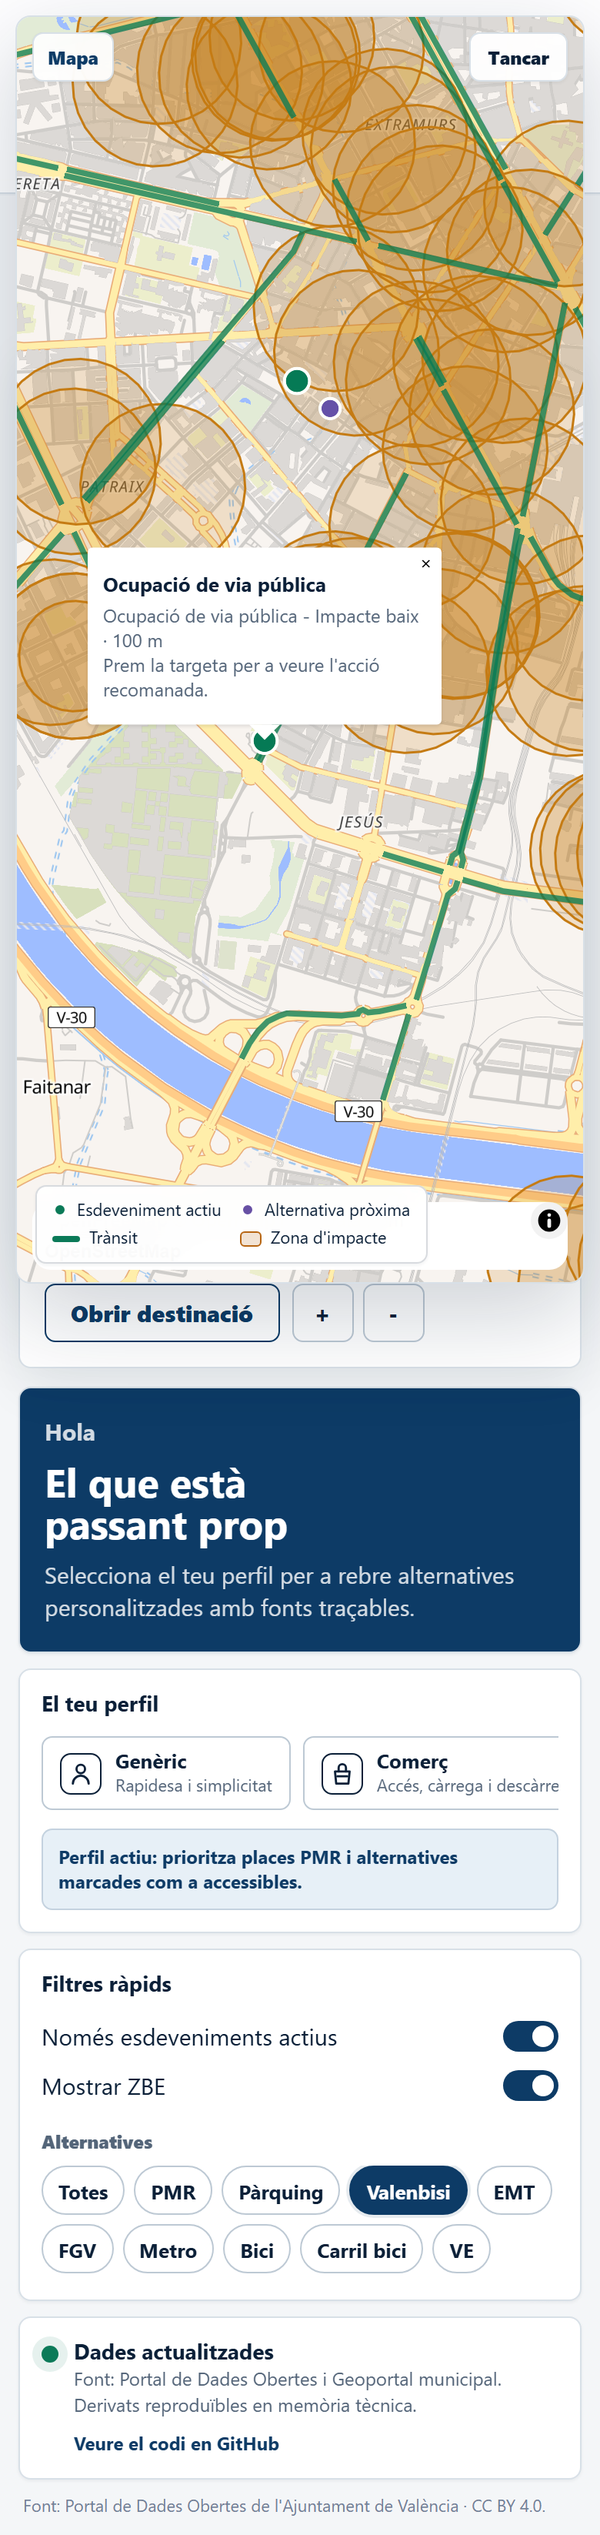
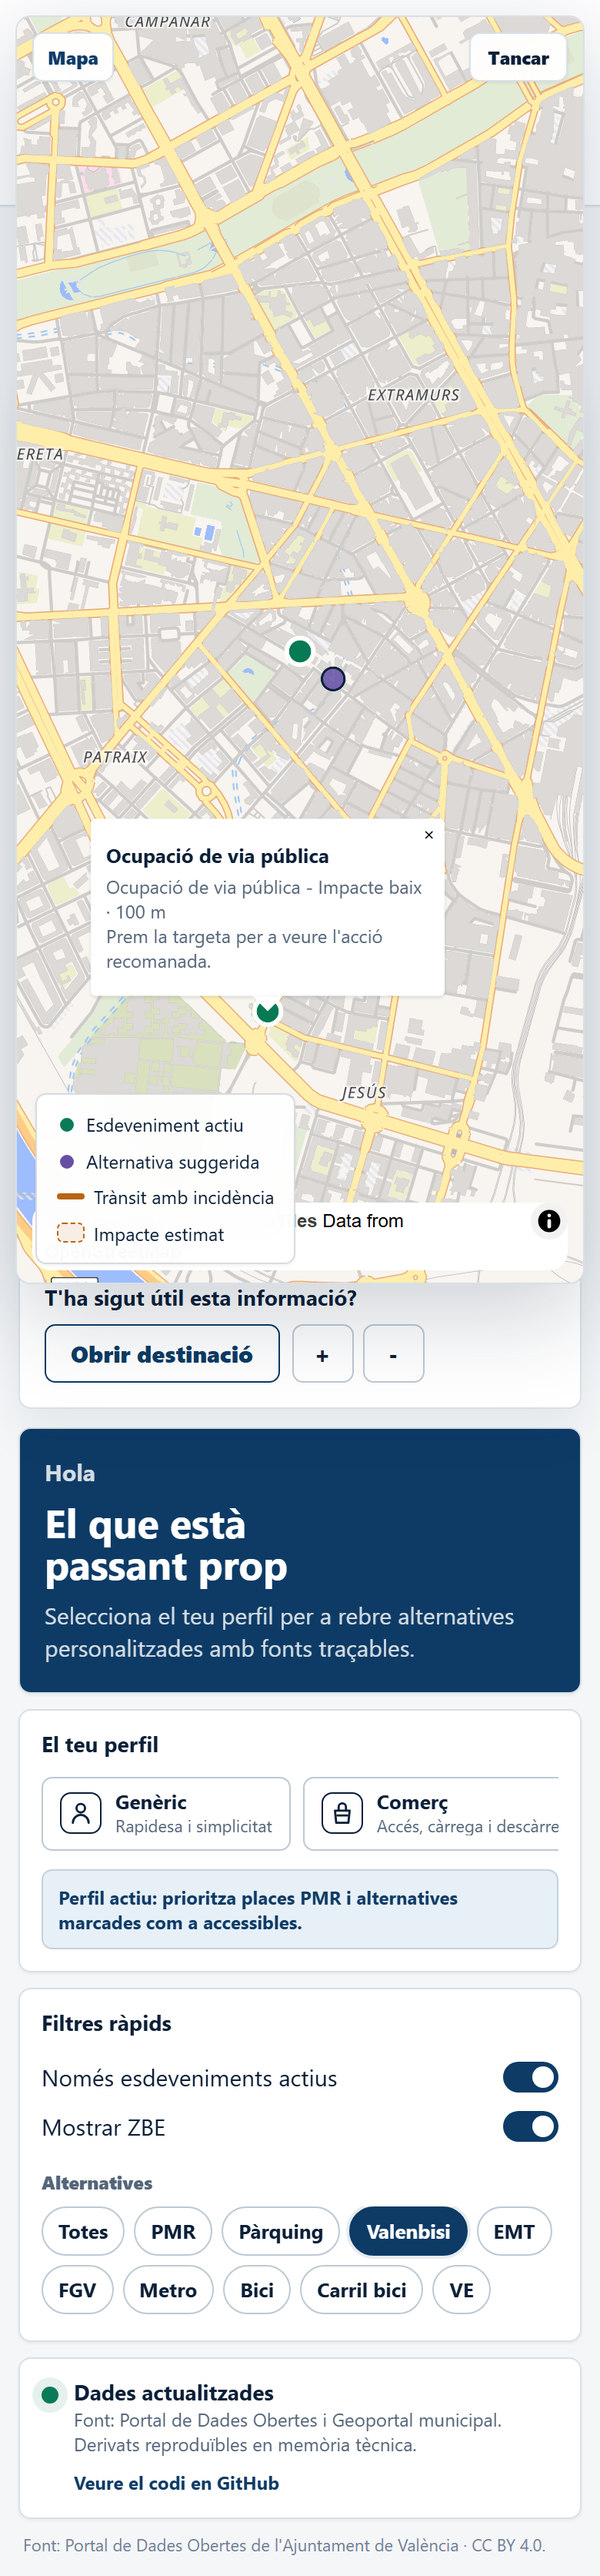
Refine map and content clarity

diff --git a/src/frontend/assets/app.css b/src/frontend/assets/app.css
@@ -508,8 +508,7 @@ a:hover {
   scrollbar-width: none;
 }
 
-.poi-filters button,
-.view-tabs button {
+.poi-filters button {
   min-height: 32px;
   border: 1px solid var(--line-strong);
   border-radius: 999px;
@@ -524,12 +523,7 @@ a:hover {
   padding: 0 10px;
 }
 
-.view-tabs button {
-  padding: 0 12px;
-}
-
-.poi-filters button[aria-pressed="true"],
-.view-tabs button[aria-pressed="true"] {
+.poi-filters button[aria-pressed="true"] {
   border-color: var(--blue);
   background: var(--blue);
   color: #fff;
@@ -578,10 +572,42 @@ a:hover {
 
 .view-tabs {
   display: flex;
-  gap: 7px;
+  gap: 22px;
   overflow-x: auto;
-  padding: 2px 0;
+  padding: 0;
   scrollbar-width: none;
+}
+
+.view-tabs button {
+  position: relative;
+  min-height: 44px;
+  padding: 0 0 2px;
+  border: 0;
+  border-radius: 0;
+  background: transparent;
+  color: var(--muted);
+  white-space: nowrap;
+  font-size: 14px;
+  font-weight: 800;
+}
+
+.view-tabs button::after {
+  content: "";
+  position: absolute;
+  left: 0;
+  right: 0;
+  bottom: 0;
+  height: 3px;
+  border-radius: 999px;
+  background: transparent;
+}
+
+.view-tabs button[aria-pressed="true"] {
+  color: var(--blue);
+}
+
+.view-tabs button[aria-pressed="true"]::after {
+  background: var(--blue);
 }
 
 .map-shell {
@@ -657,16 +683,16 @@ a:hover {
   bottom: 12px;
   z-index: 4;
   display: grid;
-  grid-template-columns: repeat(2, minmax(0, auto));
-  gap: 6px 12px;
-  max-width: min(360px, calc(100% - 24px));
-  padding: 9px 10px;
+  grid-template-columns: 1fr;
+  gap: 9px;
+  max-width: min(280px, calc(100% - 24px));
+  padding: 12px 13px;
   border: 1px solid rgba(11, 32, 56, 0.16);
   border-radius: 7px;
   background: rgba(255, 255, 255, 0.94);
   color: var(--ink);
-  font-size: 11px;
-  line-height: 1.15;
+  font-size: 12px;
+  line-height: 1.2;
   box-shadow: var(--shadow-soft);
 }
 
@@ -684,8 +710,8 @@ a:hover {
 }
 
 .legend-dot {
-  width: 10px;
-  height: 10px;
+  width: 13px;
+  height: 13px;
   border: 2px solid #fff;
   border-radius: 999px;
 }
@@ -702,15 +728,16 @@ a:hover {
   width: 18px;
   height: 4px;
   border-radius: 999px;
-  background: var(--green);
+  background: var(--orange);
 }
 
 .legend-zone {
-  width: 14px;
-  height: 10px;
+  width: 18px;
+  height: 13px;
   border: 1px solid var(--orange);
-  border-radius: 3px;
-  background: rgba(183, 101, 18, 0.18);
+  border-style: dashed;
+  border-radius: 4px;
+  background: rgba(183, 101, 18, 0.1);
 }
 
 .map-shell.is-expanded {
@@ -1125,7 +1152,6 @@ a:hover {
 
 .source-list,
 .method-list,
-.info-metrics,
 .faq-list {
   display: grid;
   gap: 8px;
@@ -1134,17 +1160,16 @@ a:hover {
 .source-row,
 .map-explainer,
 .faq-item,
-.limitation-list li,
-.info-metrics div {
-  border: 1px solid var(--line);
-  border-radius: var(--radius);
-  background: var(--paper);
+.limitation-list li {
+  border-top: 1px solid var(--line);
 }
 
 .source-row {
   display: grid;
-  gap: 5px;
-  padding: 12px;
+  grid-template-columns: minmax(0, 1fr) auto;
+  gap: 8px 16px;
+  padding: 14px 0;
+  border-top: 1px solid var(--line);
 }
 
 .source-row strong,
@@ -1163,6 +1188,13 @@ a:hover {
 .faq-item p {
   color: var(--muted);
   line-height: 1.45;
+}
+
+.source-row a {
+  grid-column: 2;
+  grid-row: 1 / span 2;
+  align-self: center;
+  white-space: nowrap;
 }
 
 .dataset-list {
@@ -1196,7 +1228,7 @@ a:hover {
 .limitation-list li,
 .map-explainer,
 .faq-item {
-  padding: 10px 11px;
+  padding: 10px 0;
 }
 
 .map-explainer strong,
@@ -1217,11 +1249,17 @@ a:hover {
 }
 
 .info-metrics {
-  grid-template-columns: repeat(3, minmax(0, 1fr));
+  display: flex;
+  flex-wrap: wrap;
+  gap: 16px 24px;
+  padding: 14px 0;
+  border-top: 1px solid var(--line);
+  border-bottom: 1px solid var(--line);
 }
 
 .info-metrics div {
-  padding: 12px 10px;
+  min-width: 110px;
+  padding: 0;
 }
 
 .info-metrics strong,
@@ -1293,6 +1331,7 @@ a:hover {
     grid-column: auto;
     order: initial;
     justify-content: center;
+    align-self: stretch;
   }
 
   .info-panel:not([hidden]) {
@@ -1408,6 +1447,11 @@ a:hover {
     box-shadow: var(--shadow);
   }
 
+  .map-legend {
+    left: 336px;
+    bottom: 278px;
+  }
+
   .map-help {
     position: absolute;
     left: 336px;
@@ -1460,7 +1504,6 @@ a:hover {
   .route-button,
   .feedback-button,
   .profile-selector button,
-  .view-tabs button,
   .poi-filters button {
     transition: border-color 160ms ease, box-shadow 160ms ease, transform 160ms ease, background 160ms ease;
   }

diff --git a/src/frontend/assets/app.js b/src/frontend/assets/app.js
@@ -845,8 +845,11 @@ function updateMap(cards) {
   }
 
   ensureMapLayers();
-  setGeoJsonSource("impact-zones", featureCollection(state.impactZones.map(impactZoneFeature)));
-  setGeoJsonSource("traffic-lines", featureCollection(state.trafficEvents.map(eventGeometryFeature).filter(Boolean)));
+  const visibleEventIds = new Set(cards.map(({ event }) => Number(event.id)));
+  const visibleImpactZones = state.impactZones.filter((zone) => visibleEventIds.has(Number(zone.event_id)));
+  const relevantTrafficEvents = state.trafficEvents.filter((event) => Number(event.severity || 1) > 1);
+  setGeoJsonSource("impact-zones", featureCollection(visibleImpactZones.map(impactZoneFeature)));
+  setGeoJsonSource("traffic-lines", featureCollection(relevantTrafficEvents.map(eventGeometryFeature).filter(Boolean)));
   setGeoJsonSource("event-points", featureCollection(cards.map(({ event }) => eventPointFeature(event)).filter(Boolean)));
   setGeoJsonSource(
     "alternative-points",
@@ -876,7 +879,7 @@ function ensureMapLayers() {
     source: "impact-zones",
     paint: {
       "fill-color": ["case", [">=", ["get", "severity"], 4], "#c7362f", "#c57b13"],
-      "fill-opacity": 0.18,
+      "fill-opacity": 0.1,
     },
   });
   state.map.addLayer({
@@ -885,7 +888,8 @@ function ensureMapLayers() {
     source: "impact-zones",
     paint: {
       "line-color": ["case", [">=", ["get", "severity"], 4], "#c7362f", "#c57b13"],
-      "line-width": 1.5,
+      "line-width": 2,
+      "line-dasharray": [2, 2],
     },
   });
   state.map.addLayer({
@@ -894,8 +898,8 @@ function ensureMapLayers() {
     source: "traffic-lines",
     paint: {
       "line-color": ["case", [">=", ["get", "severity"], 4], "#c7362f", [">=", ["get", "severity"], 3], "#c57b13", "#057a55"],
-      "line-width": ["interpolate", ["linear"], ["zoom"], 11, 2, 15, 5],
-      "line-opacity": 0.76,
+      "line-width": ["interpolate", ["linear"], ["zoom"], 11, 1.5, 15, 3.5],
+      "line-opacity": 0.58,
     },
   });
   state.map.addLayer({
@@ -906,7 +910,7 @@ function ensureMapLayers() {
       "circle-radius": ["interpolate", ["linear"], ["zoom"], 11, 5, 15, 9],
       "circle-color": ["case", [">=", ["get", "severity"], 4], "#c7362f", "#057a55"],
       "circle-stroke-color": "#fffffb",
-      "circle-stroke-width": 2,
+      "circle-stroke-width": 3,
     },
   });
   state.map.addLayer({
@@ -914,10 +918,11 @@ function ensureMapLayers() {
     type: "circle",
     source: "alternative-points",
     paint: {
-      "circle-radius": ["interpolate", ["linear"], ["zoom"], 11, 4, 15, 7],
+      "circle-radius": ["interpolate", ["linear"], ["zoom"], 11, 5, 15, 8],
       "circle-color": "#6551a8",
-      "circle-stroke-color": "#fffffb",
-      "circle-stroke-width": 2,
+      "circle-stroke-color": "#0b2038",
+      "circle-stroke-width": 1.5,
+      "circle-opacity": 0.86,
     },
   });
   setupMapInteractions();
@@ -972,7 +977,7 @@ function popupForEventPoint(properties) {
 function popupForAlternativePoint(properties) {
   const accessible = properties.accessible === true || properties.accessible === "true";
   return popupHtml(properties.name || labelForPoi(properties.poi_type), [
-    labelForPoi(properties.poi_type),
+    `${t("legendAlternative")} - ${labelForPoi(properties.poi_type)}`,
     accessible ? t("popupAccessible") : t("popupAlternativeHint"),
   ]);
 }
@@ -982,6 +987,7 @@ function popupForImpactZone(properties) {
   return popupHtml(t("legendImpact"), [
     `${labelForType(properties.event_type)} - ${impact.label}`,
     formatMessage("popupImpactRadius", { meters: Math.round(Number(properties.buffer_distance || 0)) }),
+    t("popupImpactHint"),
   ]);
 }
 

diff --git a/src/frontend/index.html b/src/frontend/index.html
@@ -95,9 +95,9 @@
             <div id="map" class="map-canvas"></div>
             <div class="map-legend" aria-label="Leyenda del mapa" data-i18n-attr="aria-label:mapLegendLabel">
               <span><i class="legend-dot legend-event"></i><span data-i18n="legendEvent">Evento activo</span></span>
-              <span><i class="legend-dot legend-alternative"></i><span data-i18n="legendAlternative">Alternativa cercana</span></span>
-              <span><i class="legend-line legend-traffic"></i><span data-i18n="legendTraffic">Tráfico</span></span>
-              <span><i class="legend-zone"></i><span data-i18n="legendImpact">Zona de impacto</span></span>
+              <span><i class="legend-dot legend-alternative"></i><span data-i18n="legendAlternative">Alternativa sugerida</span></span>
+              <span><i class="legend-line legend-traffic"></i><span data-i18n="legendTraffic">Tráfico con incidencia</span></span>
+              <span><i class="legend-zone"></i><span data-i18n="legendImpact">Impacto estimado</span></span>
             </div>
           </section>
 

diff --git a/docs/STATUS.md b/docs/STATUS.md
@@ -95,14 +95,14 @@ Ver [`TODO.md`](./TODO.md) para la lista completa y [`NEXT_STEPS.md`](../NEXT_ST
 | Arranque Docker verificado | ✅ `db` + `api` levantan; `/health` 200 |
 | Action Template Engine | ✅ 5 plantillas, 506 acciones generadas en ingesta real, cobertura de perfiles demo |
 | Golden Path predespliegue | ✅ Demo recomendada: perfil Comercial sobre `ocupacio-via-publica` actual con enlace municipal real; `talls-transit-falles` queda como histórico/fallback documentado |
-| Frontend local | ✅ `http://localhost:3000`/`8080` muestra 6 tarjetas reales, mapa con leyenda y popups clicables, CAS/VAL runtime, selector de idioma alineado a la derecha, nota AD.TR.15 + GitHub, tabs Fuentes/Metodología/Info ampliadas y feedback persistido; capturas en `docs/reports/frontend-mobile.png`, `docs/reports/frontend-desktop.png` y `docs/reports/frontend-polish-current.png` |
+| Frontend local | ✅ `http://localhost:3000`/`8080` muestra 6 tarjetas reales, mapa con leyenda ampliada y popups clicables, CAS/VAL runtime, selector de idioma alineado a la derecha, nota AD.TR.15 + GitHub, nav incrustada `Eventos/Fuentes/Metodología/Info`, tráfico solo con incidencia relevante y feedback persistido; capturas en `docs/reports/frontend-mobile.png`, `docs/reports/frontend-desktop.png` y `docs/reports/frontend-polish-current.png` |
 | Frontend civic utility | ✅ Rediseño map-first con cabecera institucional, perfiles/filtros en carril izquierdo, MapLibre central, detalle seleccionado a la derecha, hoja móvil en flujo y perfil Comercial; smoke Playwright mobile/desktop verde |
 | Lighthouse mobile | ✅ Performance 93, Accessibility 100, Best Practices 100 (`docs/reports/lighthouse-mobile.json`) |
 | Nginx producción | 🟡 `config/nginx/prod.conf` + `security-headers.conf` validados con `nginx -t` y `curl -I` local; falta dominio público + securityheaders.com tras T-23 |
 | Deploy | pendiente de T-23/T-27/T-28 sobre VPS disponible |
 
 ## Última actualización
-- **Fecha:** 2026-05-10 (R-18 severidad operativa + front flotante)
+- **Fecha:** 2026-05-10 (R-19 claridad de mapa y contenidos)
 - **Autor:** Codex
 - **Entorno de la sesión ejecutora:** Opencode CLI + Qwen 3.6 sobre Windows — ver `docs/RULES-FOR-AGENTS.md § 10`.
 - **Siguiente revisión prevista:** preparación de VPS/producción si se confirma dominio, SSH y sistema operativo del servidor.
@@ -124,3 +124,4 @@ Ver [`TODO.md`](./TODO.md) para la lista completa y [`NEXT_STEPS.md`](../NEXT_ST
 - **R-16:** claridad de producto: eliminada nav superior duplicada, marca visible `VLC PROACTIVA`, perfiles con alternativa prioritaria distinta, aviso explícito de que Maps no evita incidencias, listado concreto de datasets en Fuentes, `comercio-ocupacion` cambia de ayudas genéricas `AE.CM.35` a carga/descarga `TR.AR.45`, y carga frontend con debounce anti-429.
 - **R-17:** navegación integrada en header: `Fuentes`, `Metodología` e `Info` se abren como drawer superpuesto y el mapa queda siempre como superficie principal. Añadidas tareas T-120 (Valhalla + `exclude_polygons`) y T-121 (Modo Alerta solo con fuentes oficiales verificadas).
 - **R-18:** severidad y diseño operativo: las ocupaciones sin gravedad oficial ya no caen todas a `1`; V-PRO deriva impacto conservador desde superficie y tipo de afección. Reingesta dev tras el cambio: `OCUPACION` queda `1=39`, `2=42`, `3=172`; `TRAFICO` queda `1=410` por estado oficial actual. El frontend pasa a layout flotante sobre mapa, con badges `Impacto`, modo claro/oscuro y paneles menos cuadriculados.
+- **R-19:** claridad de mapa y contenidos: nav de secciones incrustada sin cajas, zonas de impacto limitadas a eventos visibles, tráfico normal no se pinta, leyenda más legible y Fuentes/Metodología/Info pasan a bloques escaneables con separadores/acordeones.

diff --git a/docs/TODO.md b/docs/TODO.md
@@ -100,6 +100,7 @@
 | T-115 | Pase documental de consistencia: retirar rutas históricas `backend/app`, referencias OpenDataSoft antiguas y estados obsoletos en `README.md`, `METHODOLOGY.md`, `ROADMAP.md`, `CONTEXT.md`. | ✅ **Completado 2026-05-10** — README, METHODOLOGY, ROADMAP, CONTEXT, ARCHITECTURE, STATUS y TODO alineados al estado local no-VPS; las referencias restantes son contexto histórico o backlog. | 2026-05-10 |
 | T-116 | Pulido frontend concurso: evitar solape mapa/pestañas, ampliar Fuentes/Metodología/Info, añadir GitHub/AD.TR.15, leyenda y popups de mapa, revisar acentos ES/VAL. | ✅ **Completado 2026-05-10** — smoke mobile/desktop valida capas, leyenda y popup; DevTools confirma `overlapsTabs=false`. | 2026-05-10 |
 | T-117 | Reorganización explicativa de producto: cabecera con propuesta de valor, guía de uso, mapa sin lateral en anchos intermedios, pestañas con fuentes/metodología/info más completas, limitaciones y FAQ. | ✅ **Completado 2026-05-10** — smoke valida `layout.overlapsTabs=false`, guía de producto, ayuda de mapa, leyenda y popup. | 2026-05-10 |
+| T-123 | Claridad de mapa y contenidos: integrar nav sin cajas, evitar red de tráfico normal, limitar zonas de impacto a eventos visibles, ampliar leyenda y romper el patrón 3x3 en Fuentes/Metodología/Info. | ✅ **Completado 2026-05-10** — nav incrustada, tráfico solo con incidencia relevante, zonas visibles por evento mostrado, leyenda mayor y paneles informativos con separadores/acordeones. | 2026-05-10 |
 
 ---
 

diff --git a/CHANGELOG.md b/CHANGELOG.md
@@ -5,6 +5,13 @@ El formato sigue [Keep a Changelog](https://keepachangelog.com/es-ES/1.1.0/) y e
 
 ## [Unreleased]
 
+### Changed - Claridad de mapa y contenidos - 2026-05-10
+- Frontend: las secciones `Eventos`, `Fuentes`, `Metodologia` e `Info` pasan a navegacion incrustada tipo texto, sin aspecto de cajas/pills independientes.
+- Frontend: las zonas de impacto del mapa se limitan a los eventos visibles y se pintan como contexto estimado, con relleno suave y trazo discontinuo para no sugerir una calle cortada concreta.
+- Frontend: la capa de trafico deja de pintar todos los tramos normales; solo aparece cuando hay incidencia relevante, evitando una red verde confusa.
+- Frontend: la leyenda gana tamano y copia mas explicita; los puntos de alternativa se diferencian mejor de los eventos y sus popups indican que representan la alternativa sugerida para el perfil activo.
+- Frontend: `Fuentes`, `Metodologia` e `Info` reducen el patron de tarjetas 3x3 y pasan a bloques escaneables con separadores, acordeones y enlaces trazables.
+
 ### Changed - Estado de despliegue - 2026-05-10
 - Docs: `STATUS.md` y `ROADMAP.md` actualizados para reflejar que la demo local está estable y que producción/VPS puede iniciarse como T-23/T-27/T-28 si ya hay servidor disponible.
 - Docs: se corrigen restos obsoletos sobre rama activa, blockers históricos, Lighthouse y Golden Path.

diff --git a/docs/AGENTS.md b/docs/AGENTS.md
@@ -1067,3 +1067,10 @@ Archivos tocados por el orquestador en este post-script: `docs/STATUS.md`, `docs
 - Revisados `STATUS.md`, `TODO.md`, `NEXT_STEPS.md` y `ROADMAP.md` tras la pregunta sobre despliegue.
 - Corregidos restos obsoletos: rama activa, blockers históricos, siguientes acciones sin VPS, Lighthouse y Golden Path.
 - Estado resultante: demo local estable; producción puede iniciarse con T-23/T-27/T-28 si el VPS ya está disponible. Concurso sigue teniendo pendientes Anexo II, vídeo, revisión final y solicitud.
+
+## Sesion 2026-05-10 - Claridad de mapa y contenidos
+- T-123 cerrado: la nav `Eventos/Fuentes/Metodología/Info` queda incrustada como texto con subrayado activo, no como cajas separadas.
+- Mapa: `impact_zones` se filtra por eventos visibles y se dibuja con relleno bajo + línea discontinua; no debe leerse como "todas estas calles están cortadas".
+- Mapa: `traffic-realtime` solo recibe eventos con severidad mayor que 1; los 410 tramos actuales de tráfico normal no deben llenar el mapa ni competir con los eventos.
+- Leyenda y popups: los puntos verdes son eventos, los morados son alternativas sugeridas para el perfil activo; los popups explican cada capa.
+- Contenido: Fuentes/Metodología/Info deben evitar grids 3x3 y bloques genéricos; usar separadores, acordeones y enlaces trazables.

diff --git a/docs/design/vpro-design-system.md b/docs/design/vpro-design-system.md
@@ -71,6 +71,9 @@ Evitar paletas dominadas por morado, azul oscuro, crema/beige, naranja o gradien
 - Compacto por defecto.
 - Sin marco decorativo pesado.
 - Las capas y colores deben explicar estado, no decorar.
+- Las zonas de impacto son contexto estimado, no una afirmacion de calle cortada. Deben limitarse a eventos visibles y dibujarse con relleno suave y trazo discontinuo.
+- El trafico normal no se pinta como red de fondo. La capa de trafico solo debe aparecer cuando exista incidencia relevante; si no, compite con eventos y alternativas.
+- Las alternativas cercanas deben ser distinguibles de los eventos mediante color, leyenda y popup explicito asociado al perfil activo.
 
 ## Anti-patrones
 Prohibido en el frontend de V-PRO salvo decision documentada:
